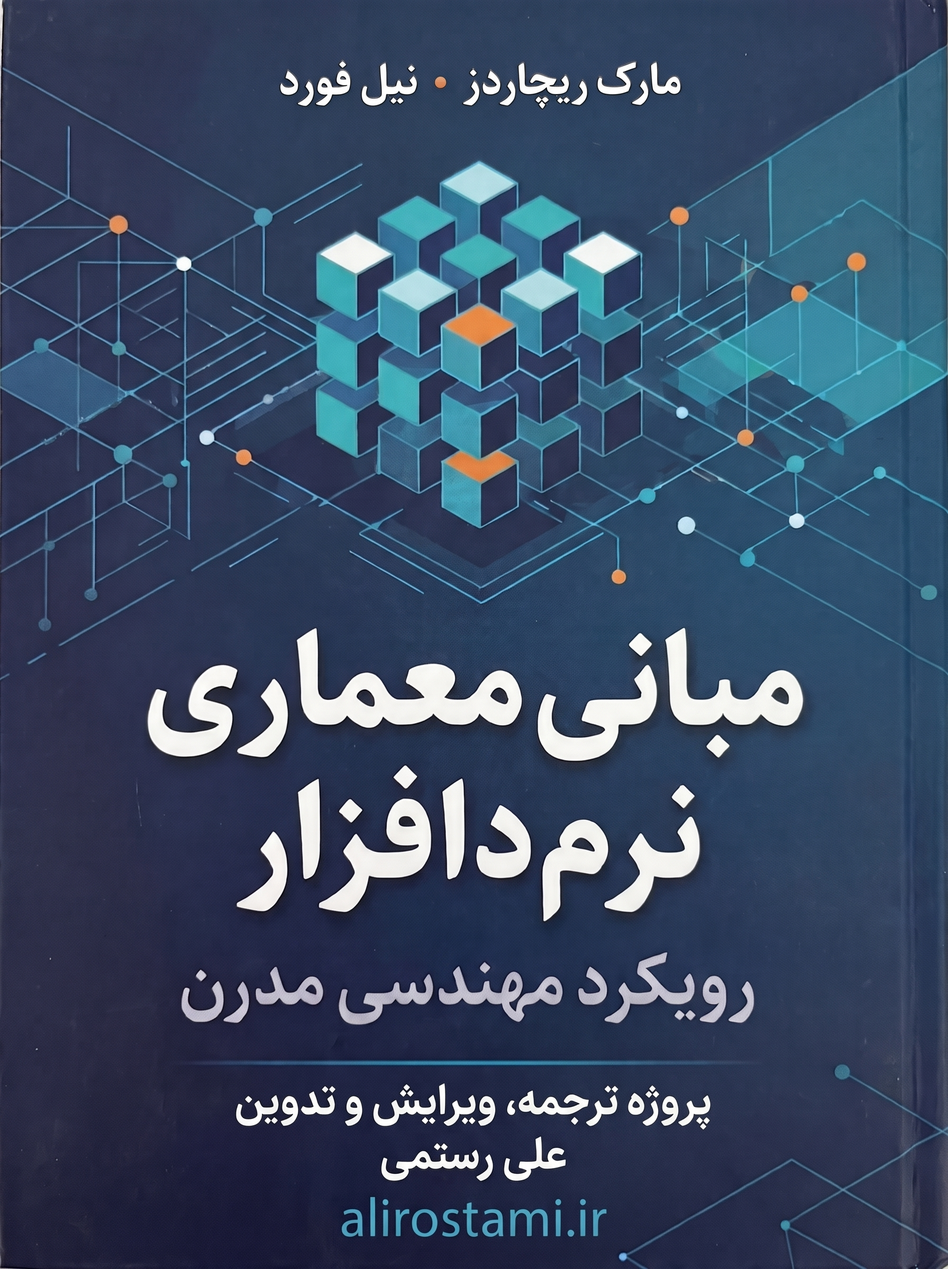
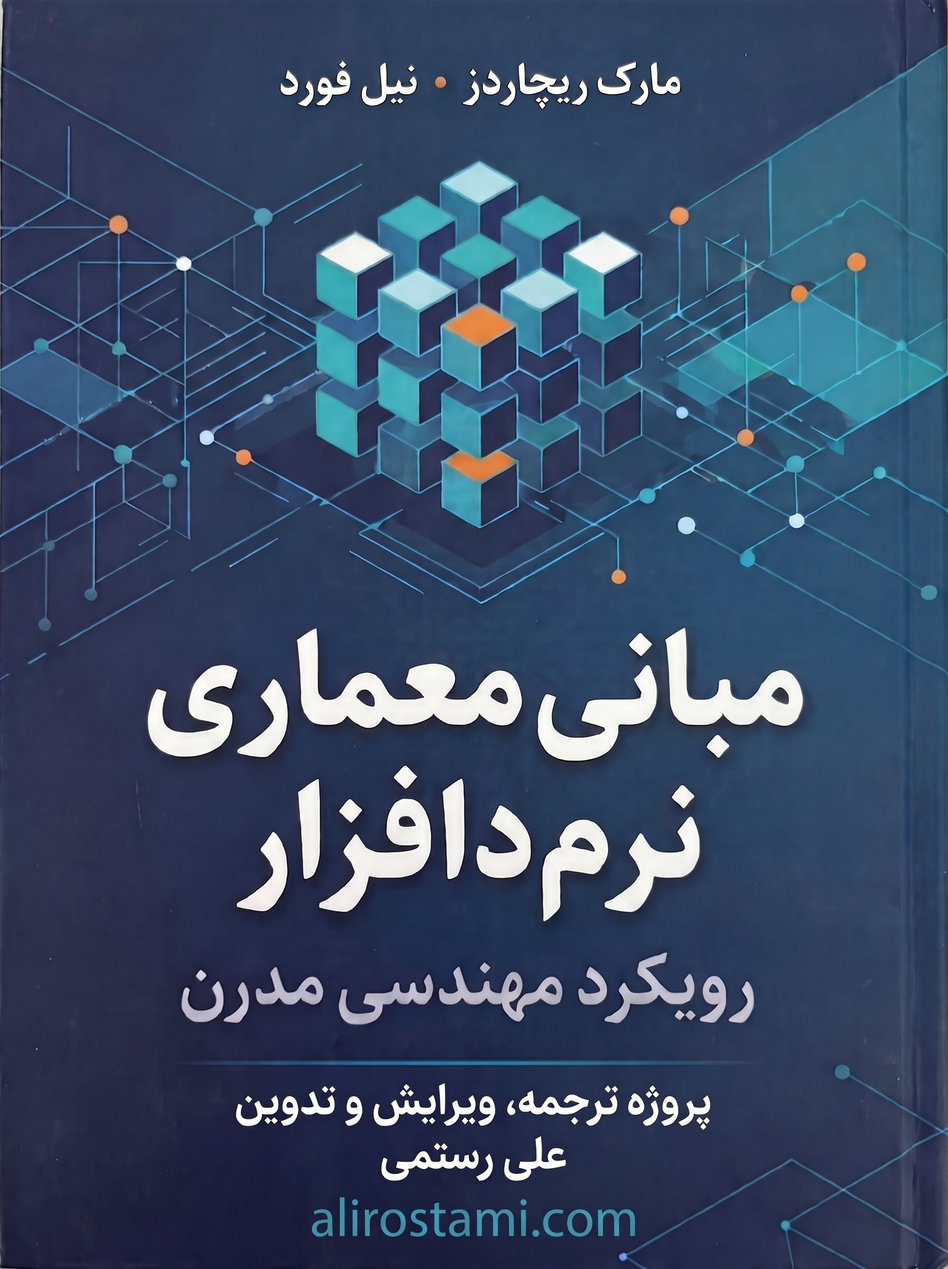
feat(cover): update book cover image and bump version to 2.2.1

Changed region(s): [[0.3125, 0.9375, 0.6875, 1.0]]

diff --git a/build_book.py b/build_book.py
@@ -22,9 +22,9 @@ FA = str.maketrans("0123456789", "۰۱۲۳۴۵۶۷۸۹")
 TITLE_FA = "مبانی معماری نرمافزار: رویکردی مهندسی و مدرن"
 TITLE_EN = "Fundamentals of Software Architecture: A Modern Engineering Approach"
 SUBTITLE = "ویرایش دوم — Mark Richards و Neal Ford (O’Reilly، ۲۰۲۵)"
-VERSION = "2.2.0"
+VERSION = "2.2.1"
 VERSION_DATE = "آبان ۱۴۰۵ (اکتبر ۲۰۲۶)"
-VERSION_NOTE = f"نسخهٔ ترجمه: {VERSION} — ویرایش بازبینیشده با تصویر جلد و صفحهٔ عنوان ({VERSION_DATE})"
+VERSION_NOTE = f"نسخهٔ ترجمه: {VERSION} — بهروزرسانی نهایی تصویر جلد و بازتولید اسناد ({VERSION_DATE})"
 COVER_IMG = "figures/fundamentals-of-software-architecture-persian.jpeg"
 NOTE = "ترجمهٔ فارسی؛ تصاویر شکلها از کتاب اصلی برداشته شده و عنوانهایشان ترجمه شده است."
 PARTS = {2: "بخش اول: مبانی", 9: "بخش دوم: سبکهای معماری", 21: "بخش سوم: تکنیکها و مهارتهای نرم"}
